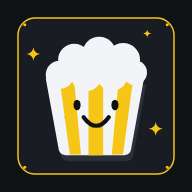
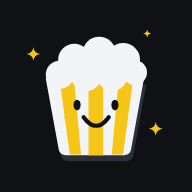
Sync AppIcon with Figma: drop the marquee surface and corner bulbs (#23)
Re-renders the favicon, apple-touch and manifest icons from the updated
AppIcon component (node 303:17) and bumps the icon URLs to ?v=4.

Claude-Session: https://claude.ai/code/session_01RJQdQjJ4KLkYYT6mvHkc7F

Changed region(s): [[0.0625, 0.0625, 0.9375, 0.9375]]

diff --git a/index.html b/index.html
@@ -4,11 +4,11 @@
     <meta charset="UTF-8" />
     <meta name="viewport" content="width=device-width, initial-scale=1, viewport-fit=cover" />
     <title>Movie Night</title>
-    <link rel="icon" href="/favicon.ico?v=3" sizes="48x48 32x32 16x16" />
-    <link rel="icon" href="/favicon-32.png?v=3" type="image/png" sizes="32x32" />
-    <link rel="icon" href="/favicon.svg?v=3" type="image/svg+xml" />
-    <link rel="apple-touch-icon" href="/apple-touch-icon.png?v=3" />
-    <link rel="manifest" href="/manifest.webmanifest?v=3" />
+    <link rel="icon" href="/favicon.ico?v=4" sizes="48x48 32x32 16x16" />
+    <link rel="icon" href="/favicon-32.png?v=4" type="image/png" sizes="32x32" />
+    <link rel="icon" href="/favicon.svg?v=4" type="image/svg+xml" />
+    <link rel="apple-touch-icon" href="/apple-touch-icon.png?v=4" />
+    <link rel="manifest" href="/manifest.webmanifest?v=4" />
     <meta name="apple-mobile-web-app-title" content="Movie Night" />
     <meta name="theme-color" content="#0f1115" media="(prefers-color-scheme: dark)" />
     <meta name="theme-color" content="#f7f8fa" media="(prefers-color-scheme: light)" />
